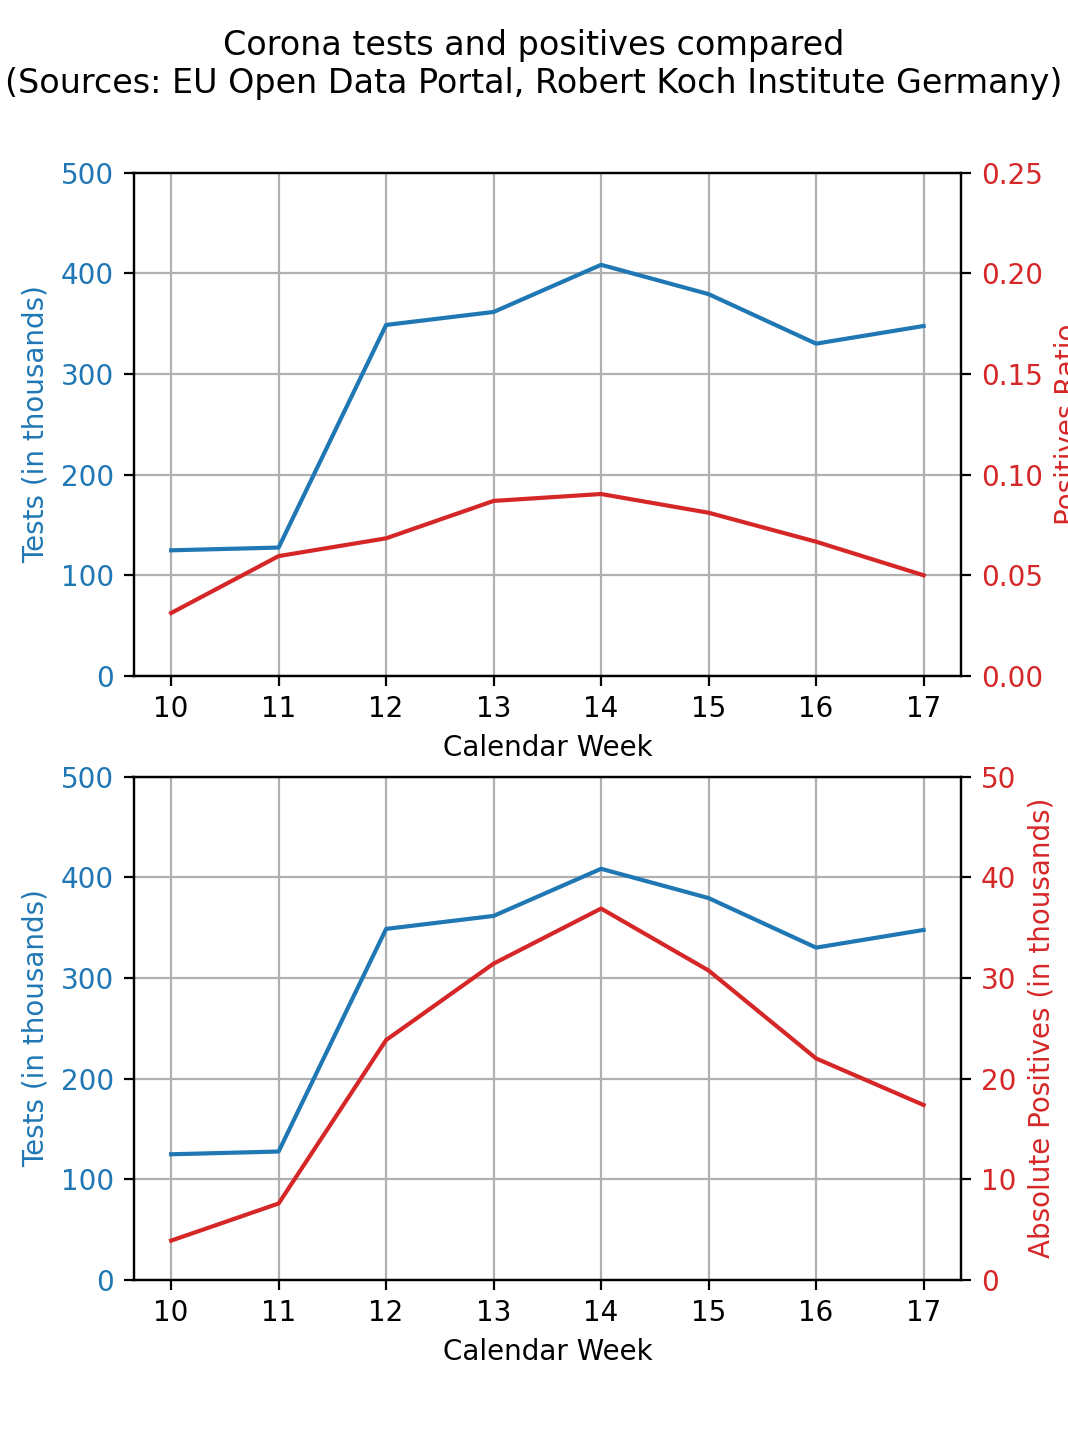
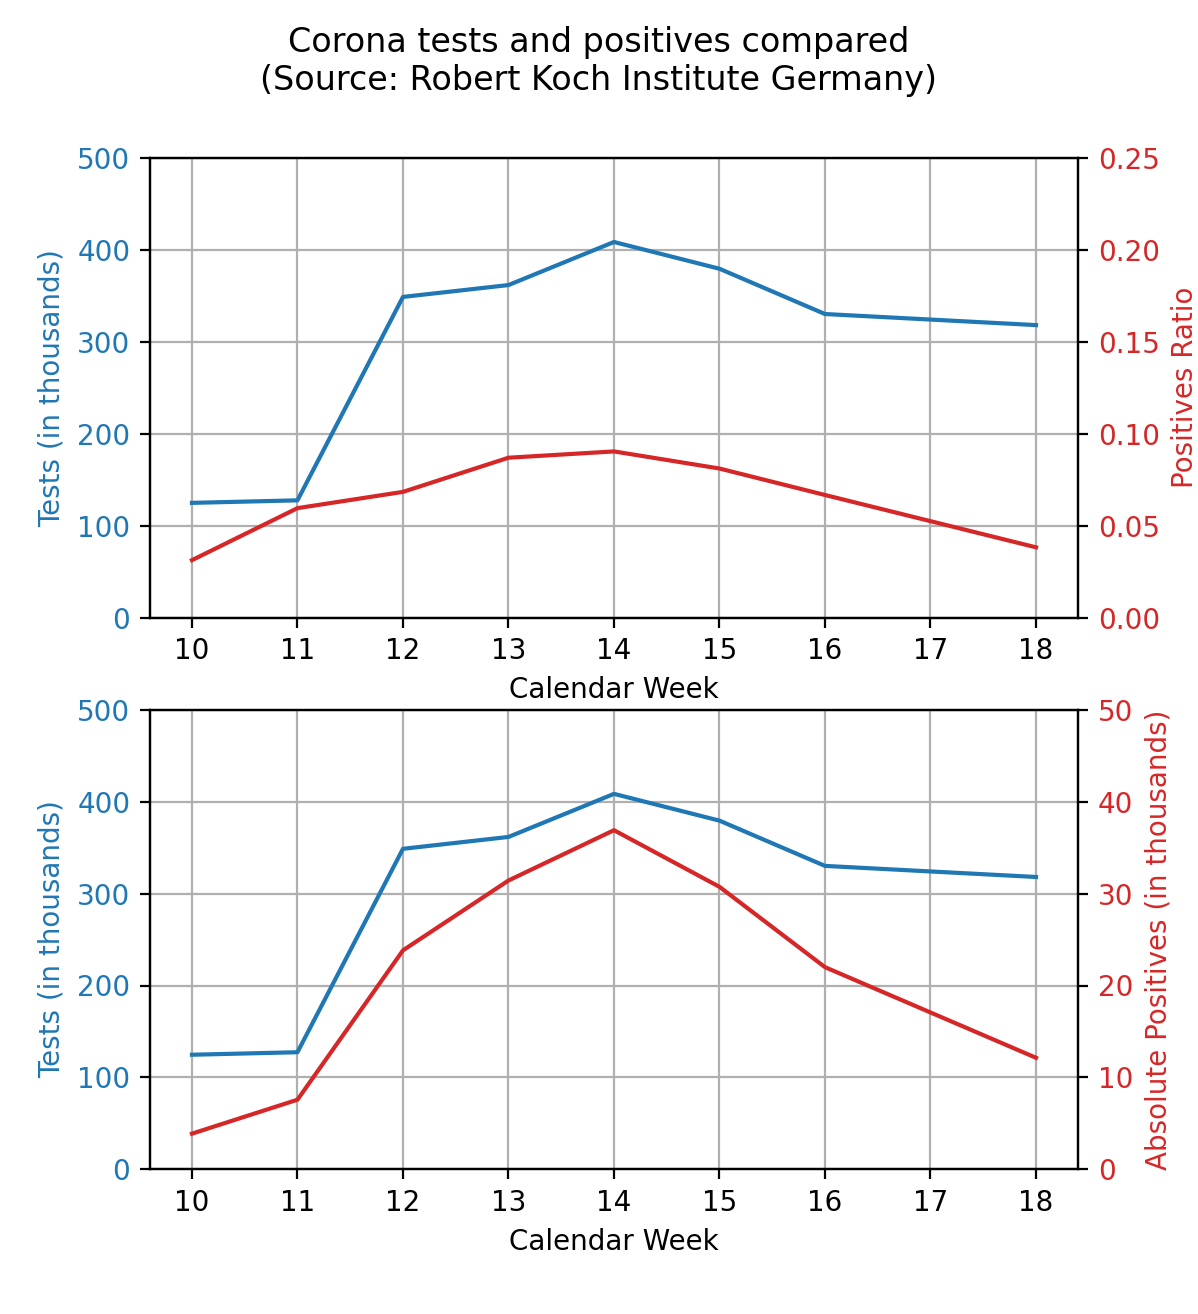
rki report updated

diff --git a/corona_config.py b/corona_config.py
@@ -17,7 +17,7 @@ backup_path_rki_report = "{}/backup_{}".format(data_folder, file_rki_report)
 
 link_corona_cases = "https://opendata.ecdc.europa.eu/covid19/casedistribution/csv"
 link_deaths_germany = "https://www.destatis.de/DE/Themen/Gesellschaft-Umwelt/Bevoelkerung/Sterbefaelle-Lebenserwartung/Tabellen/sonderauswertung-sterbefaelle.xlsx?__blob=publicationFile"
-link_rki_report = "https://www.rki.de/DE/Content/InfAZ/N/Neuartiges_Coronavirus/Situationsberichte/2020-04-29-de.pdf?__blob=publicationFile"
+link_rki_report = "https://www.rki.de/DE/Content/InfAZ/N/Neuartiges_Coronavirus/Situationsberichte/2020-05-06-de.pdf?__blob=publicationFile"
 
 data_sources = [
     (link_corona_cases, path_corona_cases, backup_path_corona_cases),

diff --git a/corona_database.py b/corona_database.py
@@ -165,7 +165,7 @@ def import_rki_report():
             return float(s)
 
     pdf_file = pdfplumber.open(cfg.path_rki_report)
-    page = pdf_file.pages[7]
+    page = pdf_file.pages[8]
     text = page.extract_text()
     result = re.findall(pattern, text)
 

diff --git a/README.md b/README.md
@@ -77,5 +77,5 @@ The source code can be found in the function `total_corona_deaths_germany` in `c
 ### Corona positives compared to total tests
 The source code can be found in the function `positives_to_tests_germany` in `corona_analysis.py`. 
 
-![Corona-positives-vs-tests-germany](results/tests_positives_germany.png)
+![Corona-positives-vs-tests-germany](results/test_positive_ratio_germany.png)
 
